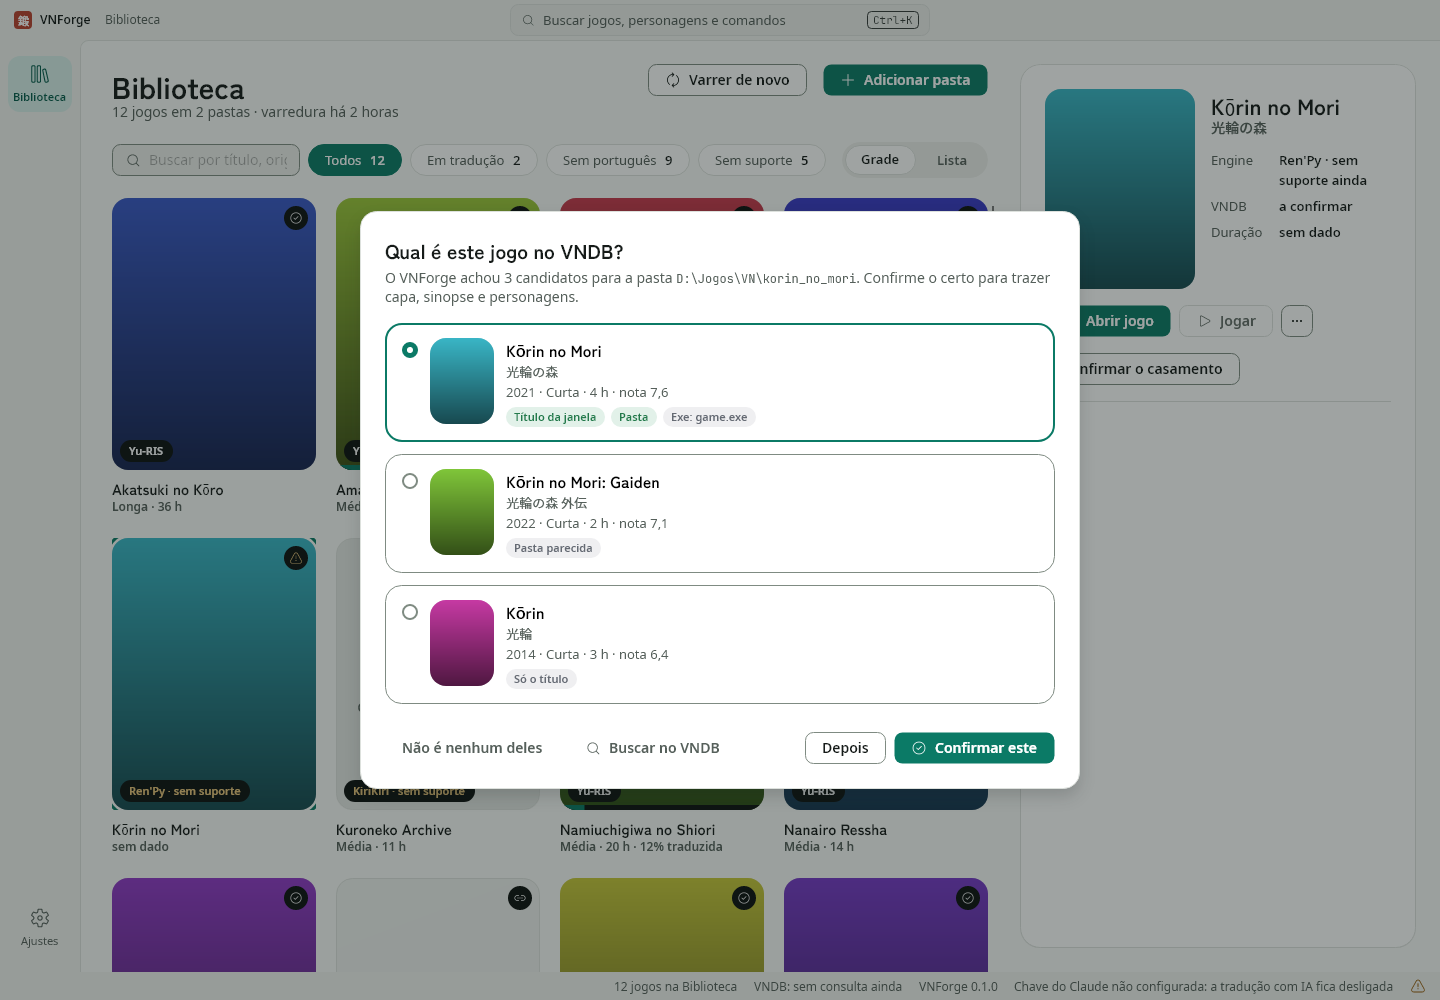
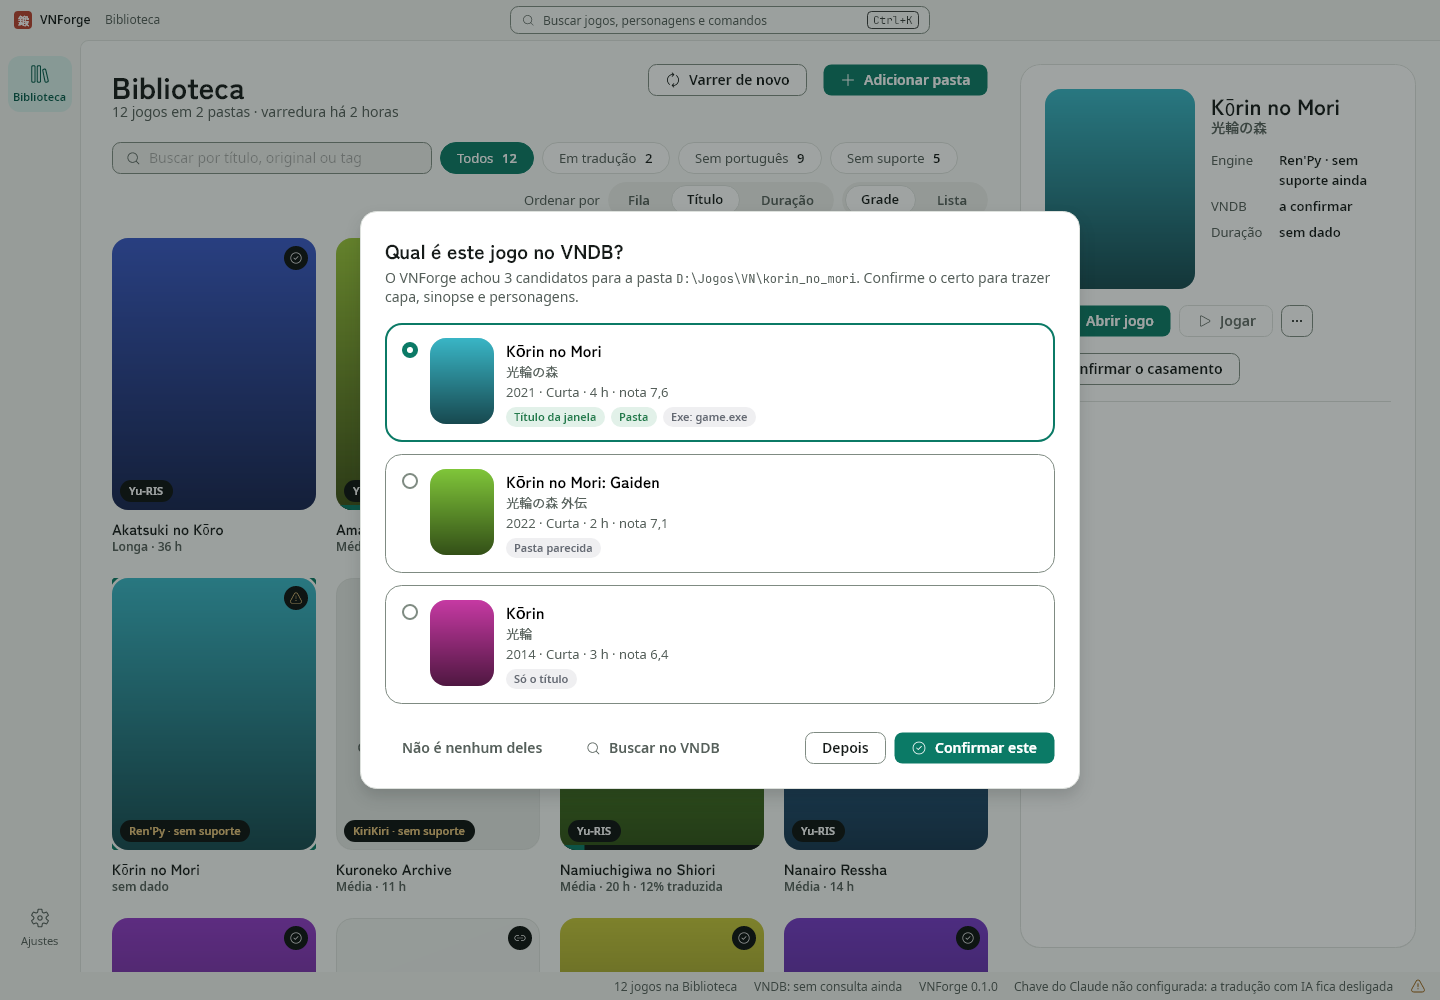
feat: Ordenar por e a lista como fila de tradução na Biblioteca, com o render do quadro (Refs #551)

diff --git a/tests/VNForge.App.Tests/Rendering/LibraryRenderTests.cs b/tests/VNForge.App.Tests/Rendering/LibraryRenderTests.cs
@@ -38,7 +38,7 @@ public sealed class LibraryRenderTests(HeadlessFixture fixture) : IClassFixture<
             Assert.Contains("Varrer de novo", texts);
             Assert.Contains("Adicionar pasta", texts);
             Assert.Contains(window.GetVisualDescendants().OfType<TextBox>(), t => t.PlaceholderText == "Buscar por título, original ou tag");
-            Assert.Equal(["Grade", "Lista"], window.GetVisualDescendants().OfType<ListBox>().Single(l => l.Classes.Contains("libseg")).GetVisualDescendants().OfType<TextBlock>().Select(t => t.Text));
+            Assert.Equal(["Grade", "Lista"], window.GetVisualDescendants().OfType<ListBox>().Single(l => l.Name == "LayoutSwitch").GetVisualDescendants().OfType<TextBlock>().Select(t => t.Text));
 
             var chips = window.GetVisualDescendants().OfType<FilterChip>().ToList();
             Assert.Equal(["Todos", "Em tradução", "Sem português", "Sem suporte"], chips.Select(c => c.Label));
@@ -202,7 +202,45 @@ public sealed class LibraryRenderTests(HeadlessFixture fixture) : IClassFixture<
         }, empty: true);
     }
 
-    private async Task Abrir(ThemeVariant theme, Action<LibraryViewModel> montar, Action<MainWindow, MainWindowViewModel> verificar, bool empty = false)
+    [Theory]
+    [MemberData(nameof(Themes))]
+    public async Task Lista_mostra_a_fila_de_traducao_com_o_portugues_a_engine_o_texto_e_a_acao(string themeName)
+    {
+        var theme = ThemeOf(themeName);
+        var checkedAt = LibrarySamples.Now.AddHours(-1);
+        LibraryGame Checked(LibraryGame g, PortugueseStatus status) => g with { Portuguese = new LibraryPortuguese(g.VndbId!, status, checkedAt, []) };
+        var games = LibrarySamples.Games()
+            .Select(g => g.ProjectPath is null && g.IsConfirmed ? Checked(g, g.Title == "Akatsuki no Kōro" ? PortugueseStatus.Partial : PortugueseStatus.None) : g)
+            .ToList();
+        await Abrir(theme, library =>
+        {
+            library.SelectFilter(LibraryFilter.NoPortuguese);
+            library.SelectedSort = library.Sorts[0];
+            library.SelectedLayout = library.Layouts[1];
+            library.Select(library.Cards.Single(c => c.Title == "Nanairo Ressha"));
+        }, (window, vm) =>
+        {
+            var texts = Texts(window);
+            foreach (var expected in new[]
+                     {
+                         "Ordenar por", "Fila", "Título", "Duração", "Jogo", "Português no VNDB", "Engine", "Texto", "Não há", "Parcial", "Yu-RIS · traduz", "Siglus · sem suporte",
+                         "≈ 10 mil linhas", "Curta · 5 h", "Traduzir este jogo", "Sem suporte ainda", "Traduzir este jogo cria o projeto já preenchido",
+                         "Personagens, gêneros e sinopse vêm do VNDB. Você só confirma o jogo e escolhe os idiomas.",
+                     })
+            {
+                Assert.True(texts.Contains(expected), $"falta '{expected}' em: {string.Join(" | ", texts)}");
+            }
+
+            var rows = window.GetVisualDescendants().OfType<Border>().Where(b => b.IsEffectivelyVisible && b.Classes.Contains("qrow")).ToList();
+            Assert.Single(rows, r => r.Classes.Contains("sel"));
+            Assert.Equal(3, window.GetVisualDescendants().OfType<Button>().Count(b => b.IsEffectivelyVisible && b.Classes.Contains("accent") && b.Classes.Contains("sm")));
+
+            ScreenRenderer.Settle(window);
+            ScreenRenderer.Save(window, RenderOutput.PathFor(ScreenRenderer.FileName("biblioteca-fila", theme)));
+        }, games: games);
+    }
+
+    private async Task Abrir(ThemeVariant theme, Action<LibraryViewModel> montar, Action<MainWindow, MainWindowViewModel> verificar, bool empty = false, IEnumerable<LibraryGame>? games = null)
     {
         await fixture.Session.Dispatch<int>(
             async () =>
@@ -210,7 +248,7 @@ public sealed class LibraryRenderTests(HeadlessFixture fixture) : IClassFixture<
                 using var config = new TempFolder();
                 var previous = VndbImages.Source;
                 VndbImages.Source = new LibrarySamples.Images();
-                var file = LibrarySamples.Save(config.Path, empty ? new GameLibrary() : LibrarySamples.Library());
+                var file = LibrarySamples.Save(config.Path, empty ? new GameLibrary() : LibrarySamples.Library(games));
                 var library = new LibraryViewModel(file, new FakeFolderPicker(null), action => action(), clock: new FixedClock(LibrarySamples.Now), readTranslation: LibrarySamples.Translation, userTags: Tags, sheets: new LibrarySamples.Sheets());
                 var start = new StartViewModel(new RecentProjectsFile(config.Path), new FakeFolderPicker(null), new FixedClock(LibrarySamples.Now));
                 var vm = new MainWindowViewModel(start, library: library);
